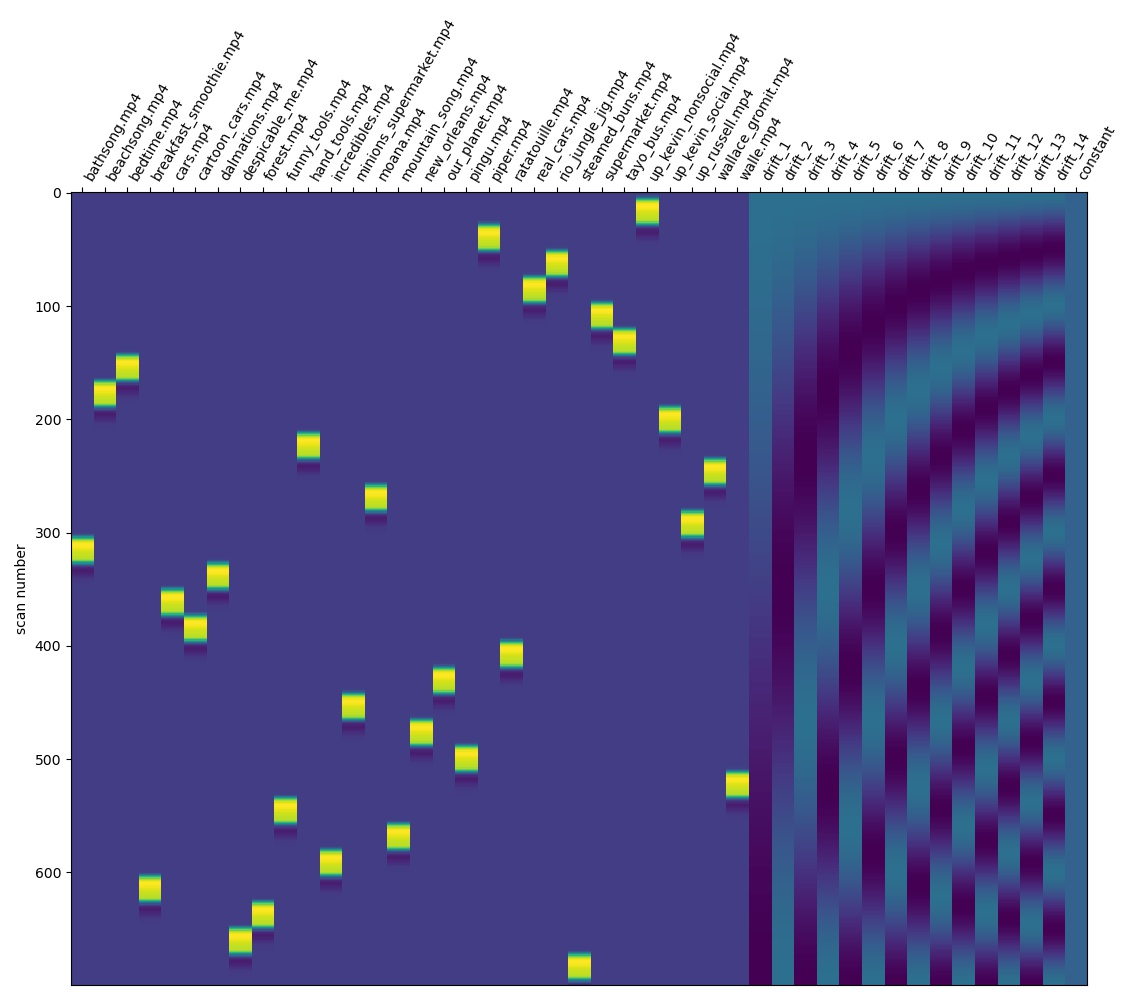
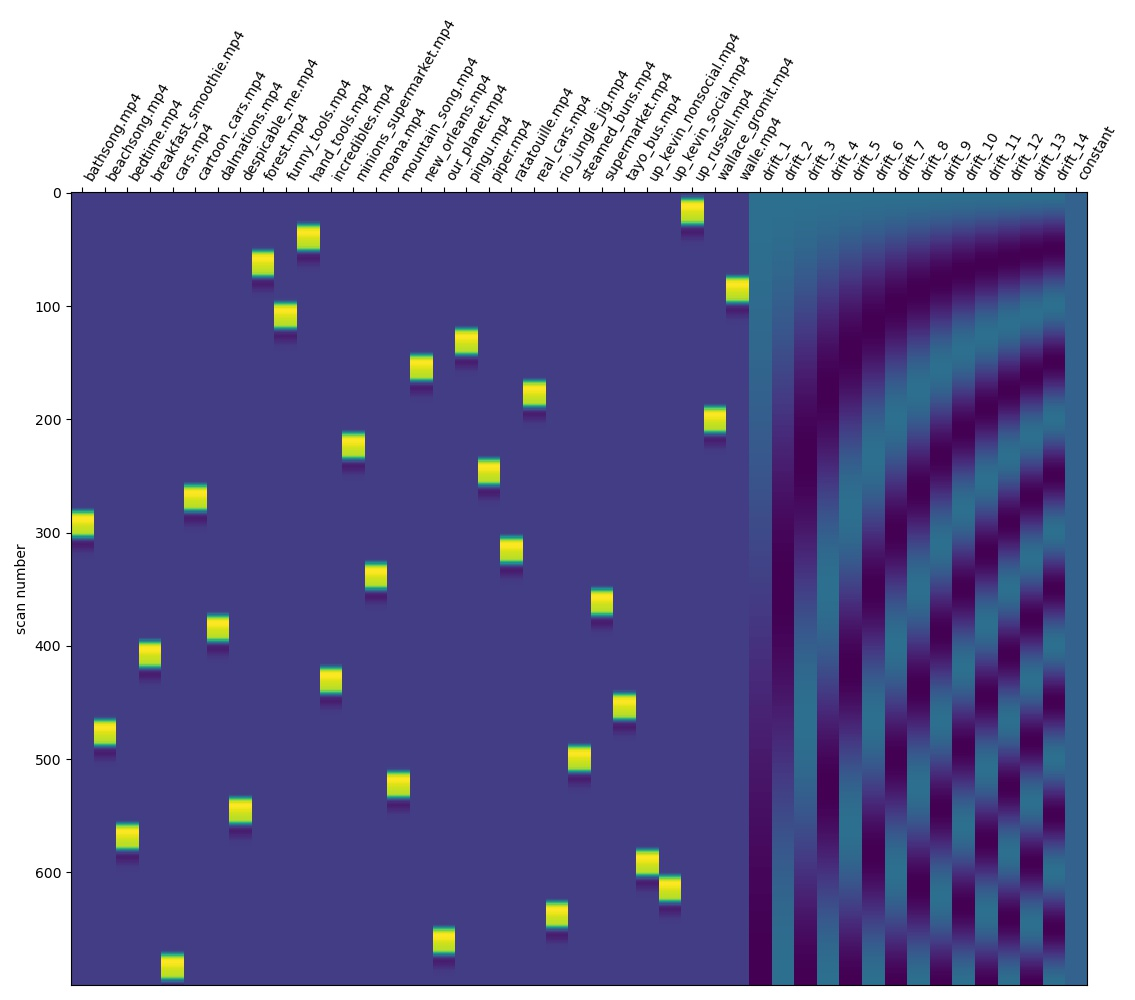
updates to 14 movies

diff --git a/model_efficiency.py b/model_efficiency.py
@@ -329,7 +329,7 @@ if __name__=='__main__':
     # Run once with figures
     # all_movie_analysis(con_list_type = 'all_trial_type', design_matrix_type = 'percontrast')
     # all_movie_analysis(con_list_type = 'boiled_down_5', design_matrix_type = 'all')
-    all_movie_analysis(con_list_type = 'all_trial_type_random_weight', design_matrix_type = 'blockpermovie', target_movies=14)
+    find_optimal_movies(con_list_type = 'boiled_down_5', design_matrix_type = 'all', target_movies=14)
     
     # Assume each voxel of simulated brain activating with random weights on each tagged column, but that we're analysing for differences across movies
     #  We do an F-test for the effect of movie
